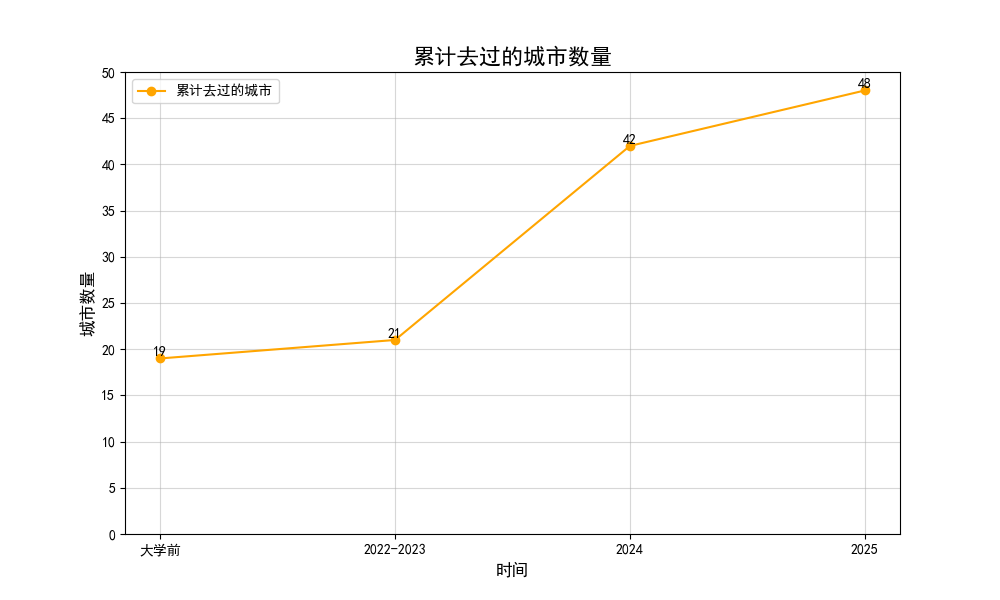
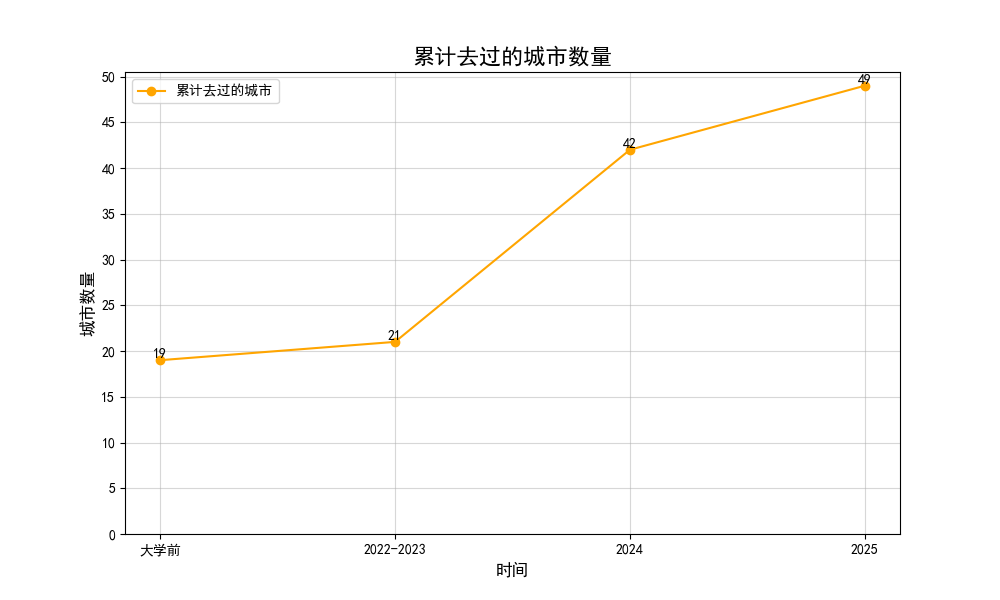
commit

diff --git a/draw.py b/draw.py
@@ -7,8 +7,8 @@ rcParams['axes.unicode_minus'] = False   # 解决负号显示问题
 
 # 数据
 years = ["大学前", "2022-2023", "2024", "2025"]
-new_cities = [19, 2, 21, 6]  # 新到的城市
-cumulative_cities = [19, 21, 42, 48]  # 累计去过的城市
+new_cities = [19, 2, 21, 7]  # 新到的城市
+cumulative_cities = [19, 21, 42, 49]  # 累计去过的城市
 
 # 创建图形并绘制新到的城市折线图
 plt.figure(figsize=(10, 6))
